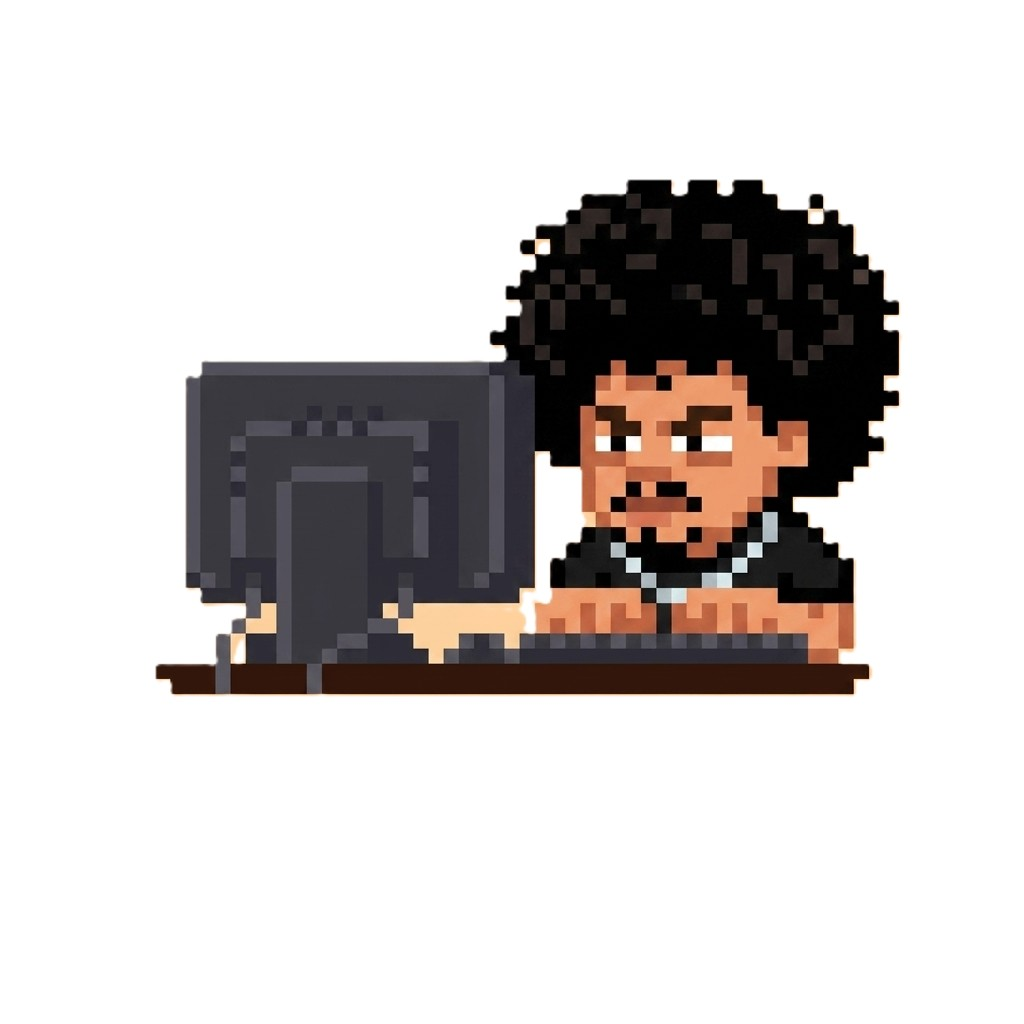
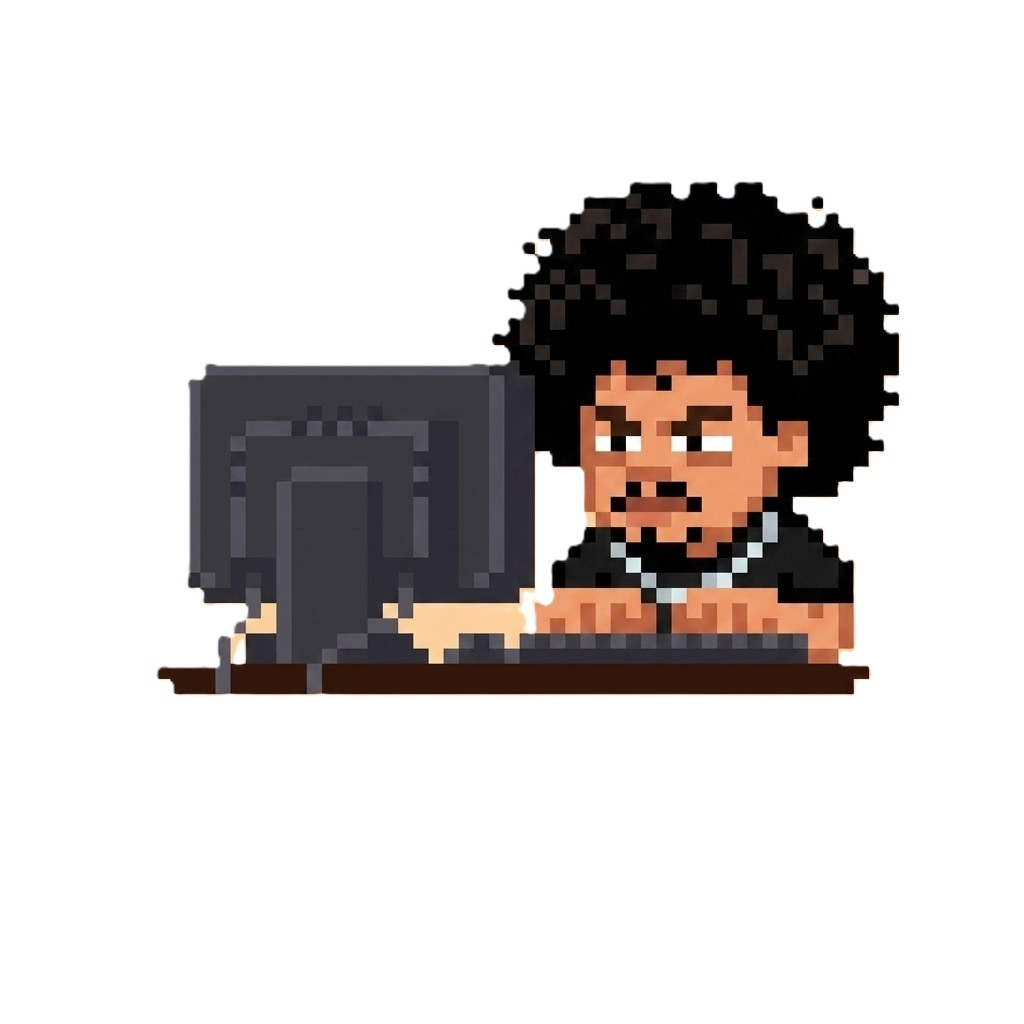
ultimos ajustes de hj

diff --git a/index.html b/index.html
@@ -4,12 +4,11 @@
     <meta charset="UTF-8">
     <meta name="viewport" content="width=device-width, initial-scale=1.0">
     <title>Pablo // Portfolio</title>
-    <link rel="stylesheet" href="script.js">
     <link rel="stylesheet" href="css/style.css">
     <link rel="preconnect" href="https://fonts.googleapis.com">
     <link rel="preconnect" href="https://fonts.gstatic.com" crossorigin>
     <link href="https://fonts.googleapis.com/css2?family=JetBrains+Mono:wght@400;500;700&display=swap" rel="stylesheet">
-    <script src="js/remove-fundo-branco.js"></script>
+    <script src="script.js"></script>
 </head>
 <body>
 
@@ -33,7 +32,7 @@
 
         <section id="home" class="hero-section">
             <div class="hero-avatar">
-                <img src="imagens_/eupixelado.jpg" alt="Avatar pixel art de Pablo" class="avatar-img">
+                <img src="imagens_/eupixelado3.png" alt="Avatar pixel art de Pablo" class="avatar-img">
             </div>
 
             <h1 class="welcome-title">Seja bem-vindo</h1>
@@ -87,6 +86,8 @@
         <a href="https://www.linkedin.com/in/pablo-dias-de-oliveira-541311244" target="_blank" rel="noopener" class="social-icon">
             <img src="imagens_/logo-linkdin.png" alt="LinkedIn">
         </a>
+        <a href="https://github.com/PabloD2363" target="_blank" rel="noopener" class="social-icon">
+            <img src="imagens_/logo-github.png" alt="GitHub">
         </a>
     </div>
     <p>© 2026 Pablo</p>

diff --git a/script.js b/script.js
@@ -1,5 +1,5 @@
 (function () {
-    const SELETORES = [".skill-item img", ".social-icon img"];
+    const SELETORES = [".skill-item img", ".social-icon img", ".avatar-img"];
     const LIMIAR_BRANCO = 235;
 
     function removerFundoBranco(img) {